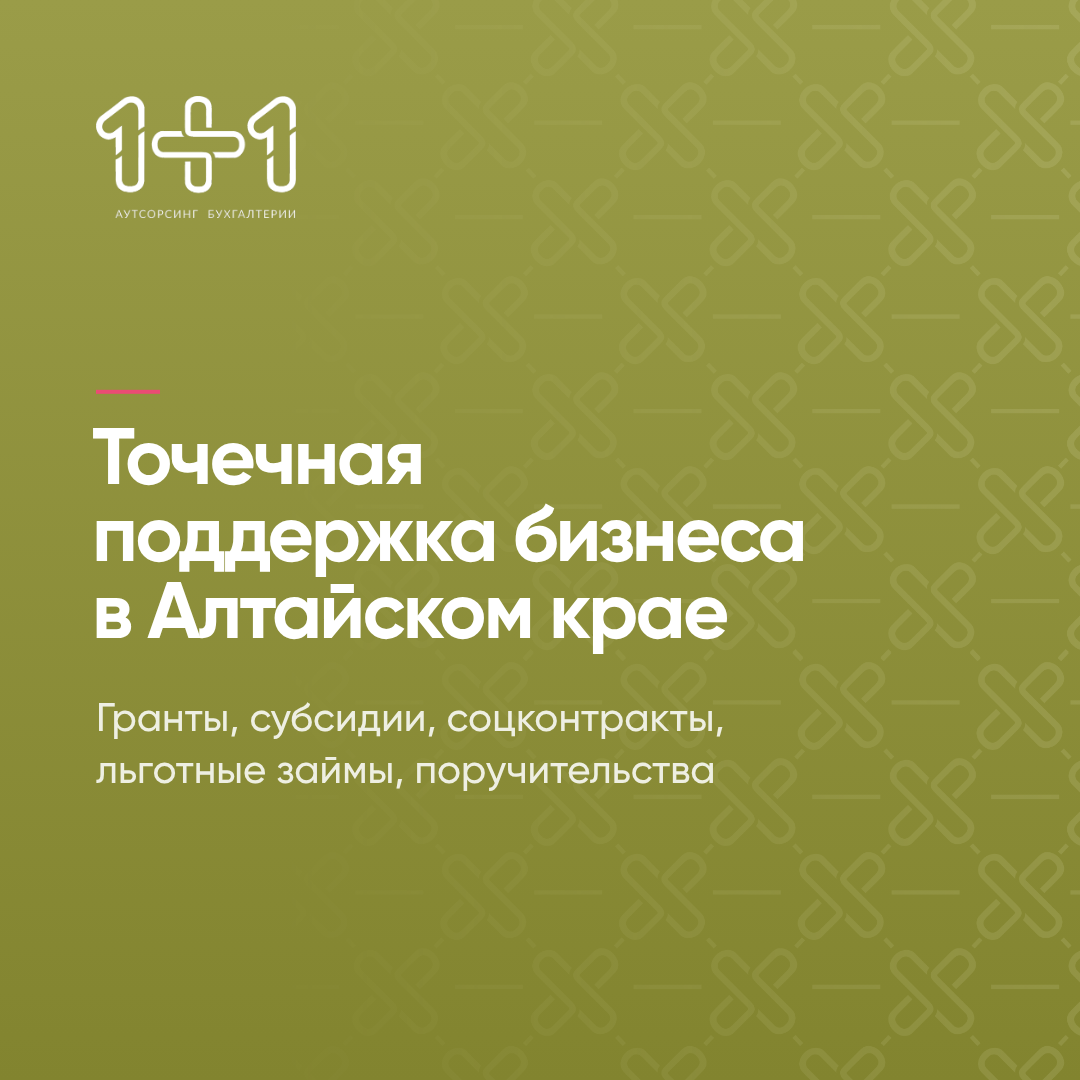
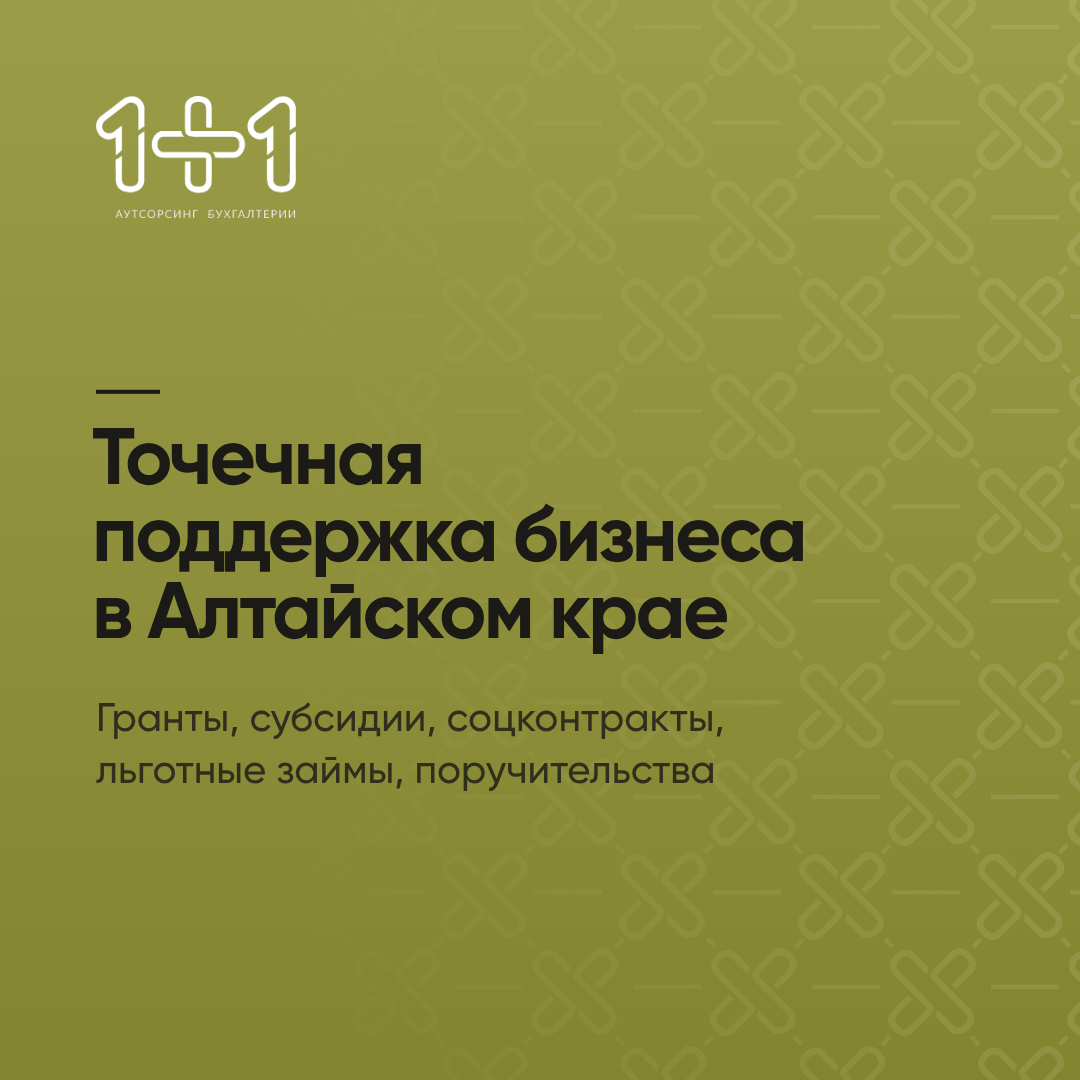
Зелёный макет: графитовый текст (два варианта)
Claude-Session: https://claude.ai/code/session_01VZ7Hrkur6jxoGp5f6QSiLJ

Changed region(s): [[0.0917, 0.3972, 0.7639, 0.6111], [0.0917, 0.6417, 0.6722, 0.7333], [0.0917, 0.3361, 0.1528, 0.3667]]

diff --git a/examples/support-c2.html b/examples/support-c2.html
@@ -1,0 +1,9 @@
+<!doctype html><html lang="ru"><head><meta charset="utf-8"><title>Точечная поддержка · V3 зелёный, графит</title>
+<link rel="stylesheet" href="../templates/base.css">
+<style>.l{margin-top:40px;font-weight:500;font-size:40px;line-height:1.3;color:rgba(255,255,255,.92)}.canvas .dash{background:#1C1A17!important}.text-mid{color:#1C1A17}.l b{display:block;margin-top:18px;font-weight:700;color:#fff;font-size:54px}</style></head><body>
+<div class="canvas green dark"><div class="pattern"></div>
+<img class="logo" src="../assets/logo-full-white.png" alt="">
+<div class="text-mid"><div class="dash"></div>
+<div class="h-l" data-slot="title" data-fit data-sizes="104,80" data-max-lines="3" style="margin-left:-4px">Точечная<br>поддержка бизнеса<br>в Алтайском крае</div>
+<p class="l" data-slot="sub">Гранты, субсидии, соцконтракты,<br>льготные займы, поручительства</p></div></div>
+<script src="../templates/fit.js"></script></body></html>

diff --git a/examples/support-c.html b/examples/support-c.html
@@ -1,6 +1,6 @@
-<!doctype html><html lang="ru"><head><meta charset="utf-8"><title>Точечная поддержка · V3 зелёный</title>
+<!doctype html><html lang="ru"><head><meta charset="utf-8"><title>Точечная поддержка · V3 зелёный, графит</title>
 <link rel="stylesheet" href="../templates/base.css">
-<style>.l{margin-top:40px;font-weight:500;font-size:40px;line-height:1.3;color:rgba(255,255,255,.86)}.l b{display:block;margin-top:18px;font-weight:700;color:#fff;font-size:54px}</style></head><body>
+<style>.l{margin-top:40px;font-weight:500;font-size:40px;line-height:1.3;color:rgba(28,26,23,.82)}.canvas .dash{background:#1C1A17!important}.text-mid{color:#1C1A17}.l b{display:block;margin-top:18px;font-weight:700;color:#fff;font-size:54px}</style></head><body>
 <div class="canvas green dark"><div class="pattern"></div>
 <img class="logo" src="../assets/logo-full-white.png" alt="">
 <div class="text-mid"><div class="dash"></div>

diff --git a/registry/LOG.md b/registry/LOG.md
@@ -49,3 +49,4 @@
 | 2026-10-21-25 | 2026-10-21 | Точечная поддержка бизнеса в Алтайском крае: гранты, субсидии… | V11 | светлый | team/color-0551 | черта | — | предложен | support-a: фото в рамке (раньше был кадр 0259, он уже использован, заменён) |
 | 2026-10-21-26 | 2026-10-21 | Точечная поддержка бизнеса в Алтайском крае: гранты, субсидии… | V8 | светлый | team/plaster-0356 | «Как получить?» | — | предложен | support-b: полоса с командой на весь низ, заголовок 80 в 3 строки (раньше был флэтлей 0677, он уже использован, заменён) |
 | 2026-10-21-27 | 2026-10-21 | Точечная поддержка бизнеса в Алтайском крае: гранты, субсидии… | V3 | зелёный | — | вопрос | — | предложен | support-c; без «Как получить?» |
+| 2026-10-21-28 | 2026-10-21 | Точечная поддержка бизнеса в Алтайском крае: гранты, субсидии… | V3 | зелёный, графитовый текст | — | графит | — | предложен | support-c (весь текст графит), support-c2 (заголовок графит, пояснение белым) |
